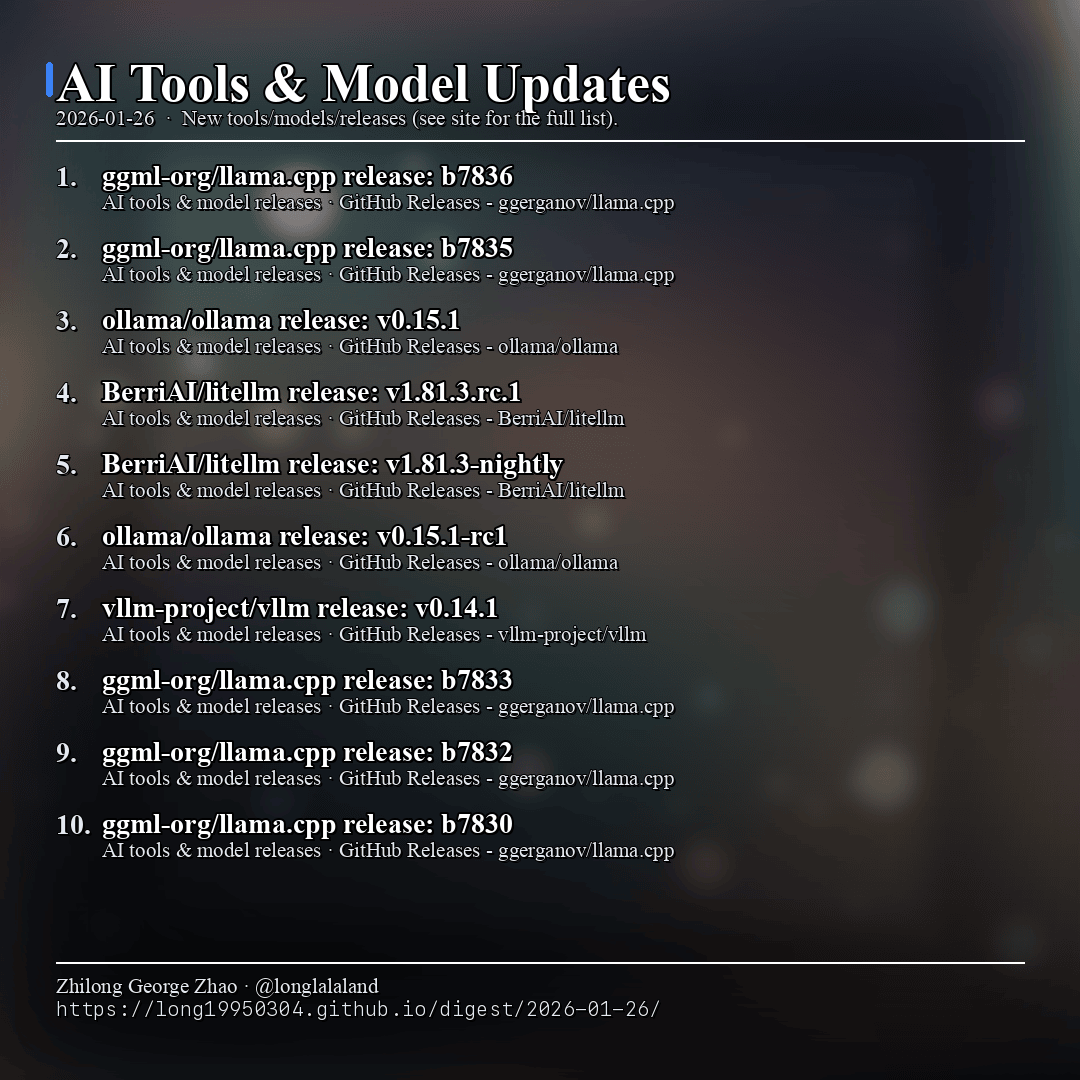
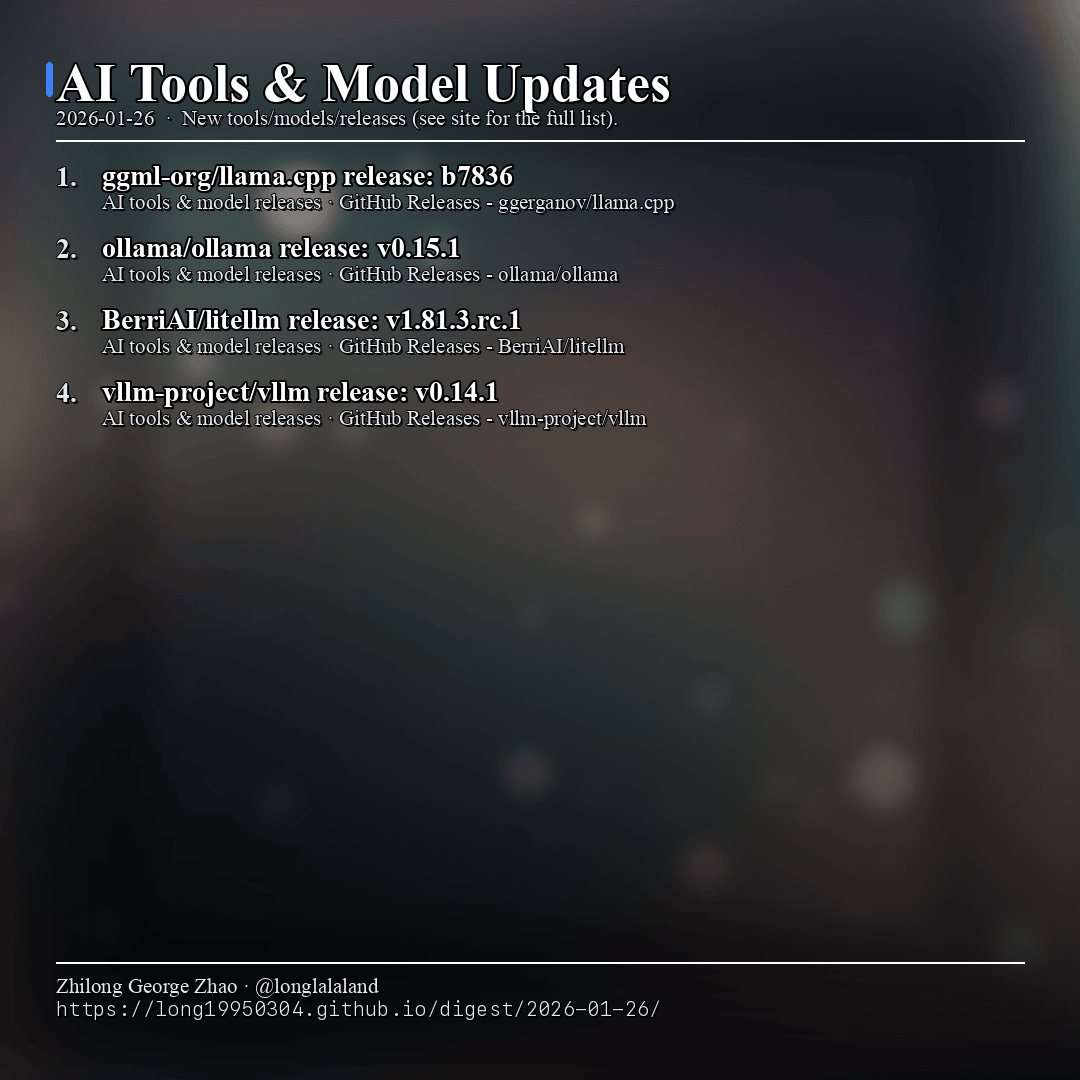
digest: make AI updates practical and add MCP/visual sources

diff --git a/_digests_zh/2026-01-26.md b/_digests_zh/2026-01-26.md
@@ -7,9 +7,9 @@ digest_date: 2026-01-26
 translation_key: digest-2026-01-26
 ---
 
-![每日简报 - 2026-01-26 — News](/assets/img/digests/2026-01-26-zh.png?v=5accd7a)
+![每日简报 - 2026-01-26 — News](/assets/img/digests/2026-01-26-zh.png?v=7511adf)
 
-![每日简报 - 2026-01-26 — AI tools](/assets/img/digests/2026-01-26-ai-zh.png?v=5accd7a)
+![每日简报 - 2026-01-26 — AI tools](/assets/img/digests/2026-01-26-ai-zh.png?v=7511adf)
 
 ## 最重要的 10 条（新闻）
 
@@ -43,37 +43,19 @@ translation_key: digest-2026-01-26
 10. [微软向政府交出客户数据加密密钥](https://www.theverge.com/news/867244/microsoft-bitlocker-privacy-fbi) — 科技 / 产业 | The Verge | 2026-01-24 22:39 UTC
    - 去年联邦调查局持搜查令要求微软交出密钥，以解锁存储在三个笔记本电脑上的加密数据，作为……
 
-## AI 工具 / 模型更新（10 条）
+## AI 工具 / 模型更新
 
 1. [ggml-org/llama.cpp 发布：b7836](https://github.com/ggml-org/llama.cpp/releases/tag/b7836) — AI 工具 / 模型发布 | GitHub Releases - ggerganov/llama.cpp | 2026-01-25 21:10 UTC
-   - CUDA：GQA > 1 但非2的幂时FA更快（#19092）macOS/iOS：macOS Apple Silicon（arm64）macOS Intel（x64）iOS XCFramework Linux：U…
+   - 版本更新（详见链接中的更新日志）。
 
-2. [ggml-org/llama.cpp 版本发布：b7835](https://github.com/ggml-org/llama.cpp/releases/tag/b7835) — AI 工具 / 模型发布 | GitHub Releases - ggerganov/llama.cpp | 2026-01-25 19:45 UTC
-   - metal：修复旧版iOS/macOS上推荐的recommendedMaxWorkingSetSize可用性问题（#19088）合著者：chenbin11 chenbin11@kuaishou.com macOS…
+2. [ollama/ollama 版本发布：v0.15.1](https://github.com/ollama/ollama/releases/tag/v0.15.1) — AI 工具 / 模型发布 | GitHub Releases - ollama/ollama | 2026-01-25 04:53 UTC
+   - 版本更新（详见链接中的更新日志）。
 
-3. [ollama/ollama 版本发布：v0.15.1](https://github.com/ollama/ollama/releases/tag/v0.15.1) — AI 工具 / 模型发布 | GitHub Releases - ollama/ollama | 2026-01-25 04:53 UTC
-   - GLM-4.7-Flash 性能与正确性改进，修复重复回答和工具调用质量 修复性能…
+3. [BerriAI/litellm 发布：v1.81.3.rc.1](https://github.com/BerriAI/litellm/releases/tag/v1.81.3.rc.1) — AI 工具 / 模型发布 | GitHub Releases - BerriAI/litellm | 2026-01-25 03:17 UTC
+   - 版本更新（详见链接中的更新日志）。
 
-4. [BerriAI/litellm 发布：v1.81.3.rc.1](https://github.com/BerriAI/litellm/releases/tag/v1.81.3.rc.1) — AI 工具 / 模型发布 | GitHub Releases - BerriAI/litellm | 2026-01-25 03:17 UTC
-   - 完整变更日志：v1.81.3.rc...v1.81.3.rc.1
-
-5. [BerriAI/litellm 发布：v1.81.3-nightly](https://github.com/BerriAI/litellm/releases/tag/v1.81.3-nightly) — AI 工具 / 模型发布 | GitHub Releases - BerriAI/litellm | 2026-01-25 03:14 UTC
-   - 完整变更日志：v1.81.3.rc...v1.81.3-nightly
-
-6. [ollama/ollama 发布：v0.15.1-rc1](https://github.com/ollama/ollama/releases/tag/v0.15.1-rc1) — AI 工具 / 模型发布 | GitHub Releases - ollama/ollama | 2026-01-25 00:33 UTC
-   - glm4moelite：将更多张量量化为 q8_0 并避免双 BOS 标记…
-
-7. [vllm-project/vllm 发布：v0.14.1](https://github.com/vllm-project/vllm/releases/tag/v0.14.1) — AI 工具 / 模型发布 | GitHub Releases - vllm-project/vllm | 2026-01-24 20:59 UTC
-   - 这是基于v0.14.0的补丁版本，旨在修复若干安全问题和内存泄漏。
-
-8. [ggml-org/llama.cpp 版本发布：b7833](https://github.com/ggml-org/llama.cpp/releases/tag/b7833) — AI 工具 / 模型发布 | GitHub Releases - ggerganov/llama.cpp | 2026-01-25 16:15 UTC
-   - ggml-cpu：为提示处理启用分块FA优化（#19012）ggml-cpu：为提示处理启用分块FA优化 CPU环境下长上下文FA性能受限的原因是…
-
-9. [ggml-org/llama.cpp 版本发布：b7832](https://github.com/ggml-org/llama.cpp/releases/tag/b7832) — AI 工具 / 模型发布 | GitHub Releases - ggerganov/llama.cpp | 2026-01-25 15:26 UTC
-   - kv缓存：支持无V缓存方案（#19067）kv缓存：支持无V缓存方案 cuda：优化V_is_K_view检测 cuda：改进V_is_K_view检查…
-
-10. [ggml-org/llama.cpp 版本发布：b7830](https://github.com/ggml-org/llama.cpp/releases/tag/b7830) — AI 工具 / 模型发布 | GitHub Releases - ggerganov/llama.cpp | 2026-01-25 11:04 UTC
-   - 补全功能：修复循环模型的提示缓存问题（#19045）macOS/iOS：macOS Apple Silicon（arm64）macOS Intel（x64）iOS XCFramework Linu…
+4. [vllm-project/vllm 发布：v0.14.1](https://github.com/vllm-project/vllm/releases/tag/v0.14.1) — AI 工具 / 模型发布 | GitHub Releases - vllm-project/vllm | 2026-01-24 20:59 UTC
+   - 版本更新（详见链接中的更新日志）。
 
 ## 全部列表（新闻）
 

diff --git a/_digests/2026-01-26.md b/_digests/2026-01-26.md
@@ -7,9 +7,9 @@ digest_date: 2026-01-26
 translation_key: digest-2026-01-26
 ---
 
-![Daily Digest - 2026-01-26 — News](/assets/img/digests/2026-01-26-en.png?v=5accd7a)
+![Daily Digest - 2026-01-26 — News](/assets/img/digests/2026-01-26-en.png?v=7511adf)
 
-![Daily Digest - 2026-01-26 — AI tools](/assets/img/digests/2026-01-26-ai-en.png?v=5accd7a)
+![Daily Digest - 2026-01-26 — AI tools](/assets/img/digests/2026-01-26-ai-en.png?v=7511adf)
 
 ## Top 10 — News
 
@@ -43,37 +43,19 @@ translation_key: digest-2026-01-26
 10. [Microsoft handed the government encryption keys for customer data](https://www.theverge.com/news/867244/microsoft-bitlocker-privacy-fbi) — Tech industry | The Verge | 2026-01-24 22:39 UTC
    - The FBI went to Microsoft last year with a warrant, asking them to hand over keys to unlock encrypted data stored on three laptops as part…
 
-## Top 10 — AI tools & model updates
+## AI tools & model updates
 
 1. [ggml-org/llama.cpp release: b7836](https://github.com/ggml-org/llama.cpp/releases/tag/b7836) — AI tools & model releases | GitHub Releases - ggerganov/llama.cpp | 2026-01-25 21:10 UTC
-   - CUDA: faster FA for GQA > 1 but not power of 2 ( #19092 ) macOS/iOS: macOS Apple Silicon (arm64) macOS Intel (x64) iOS XCFramework Linux: U…
+   - Release update (see link for changelog).
 
-2. [ggml-org/llama.cpp release: b7835](https://github.com/ggml-org/llama.cpp/releases/tag/b7835) — AI tools & model releases | GitHub Releases - ggerganov/llama.cpp | 2026-01-25 19:45 UTC
-   - metal : fix recommendedMaxWorkingSetSize availability on legacy iOS/macOS ( #19088 ) Co-authored-by: chenbin11 chenbin11@kuaishou.com macOS…
+2. [ollama/ollama release: v0.15.1](https://github.com/ollama/ollama/releases/tag/v0.15.1) — AI tools & model releases | GitHub Releases - ollama/ollama | 2026-01-25 04:53 UTC
+   - Release update (see link for changelog).
 
-3. [ollama/ollama release: v0.15.1](https://github.com/ollama/ollama/releases/tag/v0.15.1) — AI tools & model releases | GitHub Releases - ollama/ollama | 2026-01-25 04:53 UTC
-   - What's Changed GLM-4.7-Flash performance and correctness improvements, fixing repetitive answers and tool calling quality Fixed performance…
+3. [BerriAI/litellm release: v1.81.3.rc.1](https://github.com/BerriAI/litellm/releases/tag/v1.81.3.rc.1) — AI tools & model releases | GitHub Releases - BerriAI/litellm | 2026-01-25 03:17 UTC
+   - Release update (see link for changelog).
 
-4. [BerriAI/litellm release: v1.81.3.rc.1](https://github.com/BerriAI/litellm/releases/tag/v1.81.3.rc.1) — AI tools & model releases | GitHub Releases - BerriAI/litellm | 2026-01-25 03:17 UTC
-   - Full Changelog : v1.81.3.rc...v1.81.3.rc.1
-
-5. [BerriAI/litellm release: v1.81.3-nightly](https://github.com/BerriAI/litellm/releases/tag/v1.81.3-nightly) — AI tools & model releases | GitHub Releases - BerriAI/litellm | 2026-01-25 03:14 UTC
-   - Full Changelog : v1.81.3.rc...v1.81.3-nightly
-
-6. [ollama/ollama release: v0.15.1-rc1](https://github.com/ollama/ollama/releases/tag/v0.15.1-rc1) — AI tools & model releases | GitHub Releases - ollama/ollama | 2026-01-25 00:33 UTC
-   - glm4moelite: quantize more tensors to q8_0 and avoid double BOS token…
-
-7. [vllm-project/vllm release: v0.14.1](https://github.com/vllm-project/vllm/releases/tag/v0.14.1) — AI tools & model releases | GitHub Releases - vllm-project/vllm | 2026-01-24 20:59 UTC
-   - This is a patch release on top of v0.14.0 to address a few security and memory leak fixes.
-
-8. [ggml-org/llama.cpp release: b7833](https://github.com/ggml-org/llama.cpp/releases/tag/b7833) — AI tools & model releases | GitHub Releases - ggerganov/llama.cpp | 2026-01-25 16:15 UTC
-   - ggml-cpu: Use tiled FA for prompt-processing ( #19012 ) ggml-cpu: Use tiled FA for prompt-processing the FA performance is gimped on CPU on…
-
-9. [ggml-org/llama.cpp release: b7832](https://github.com/ggml-org/llama.cpp/releases/tag/b7832) — AI tools & model releases | GitHub Releases - ggerganov/llama.cpp | 2026-01-25 15:26 UTC
-   - kv-cache : support V-less cache ( #19067 ) kv-cache : support V-less cache cuda : better check for V_is_K_view cuda : improve V_is_K_view c…
-
-10. [ggml-org/llama.cpp release: b7830](https://github.com/ggml-org/llama.cpp/releases/tag/b7830) — AI tools & model releases | GitHub Releases - ggerganov/llama.cpp | 2026-01-25 11:04 UTC
-   - completion : fix prompt cache for recurrent models ( #19045 ) macOS/iOS: macOS Apple Silicon (arm64) macOS Intel (x64) iOS XCFramework Linu…
+4. [vllm-project/vllm release: v0.14.1](https://github.com/vllm-project/vllm/releases/tag/v0.14.1) — AI tools & model releases | GitHub Releases - vllm-project/vllm | 2026-01-24 20:59 UTC
+   - Release update (see link for changelog).
 
 ## Full list — News
 
